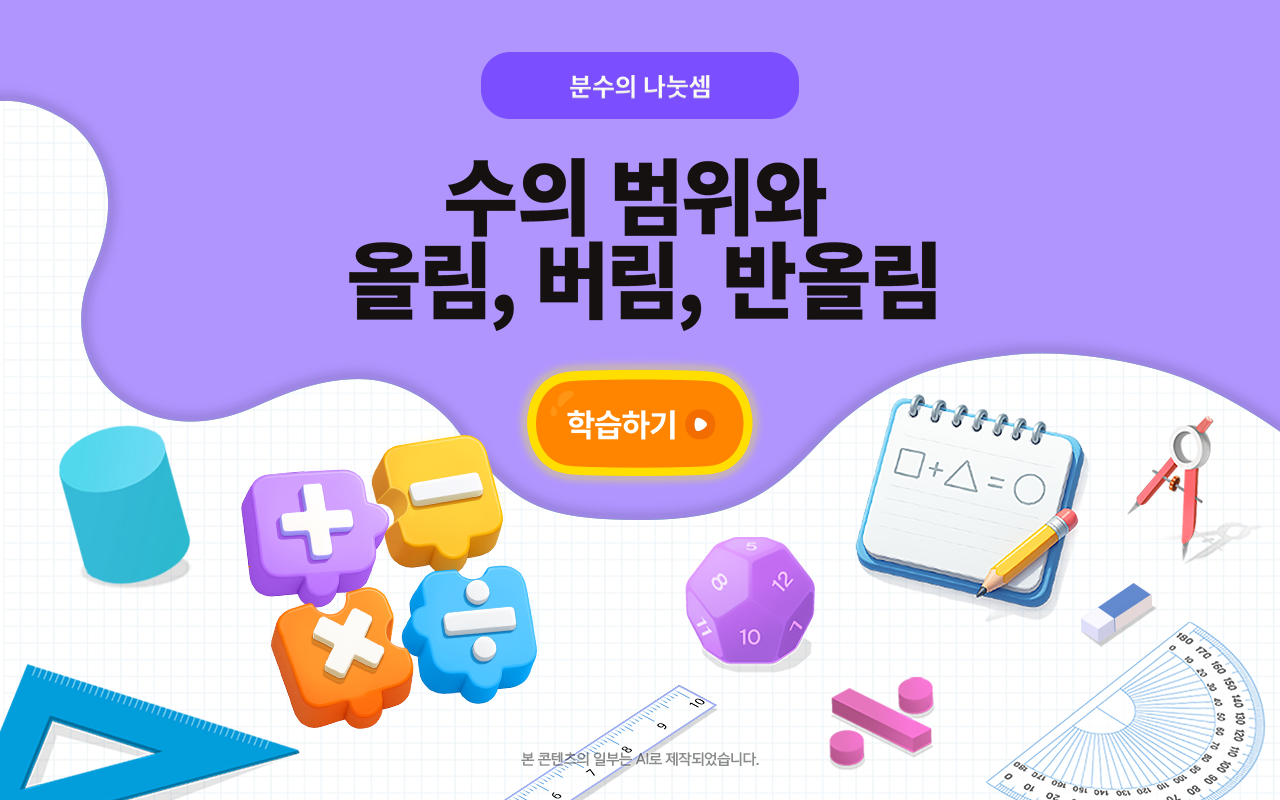
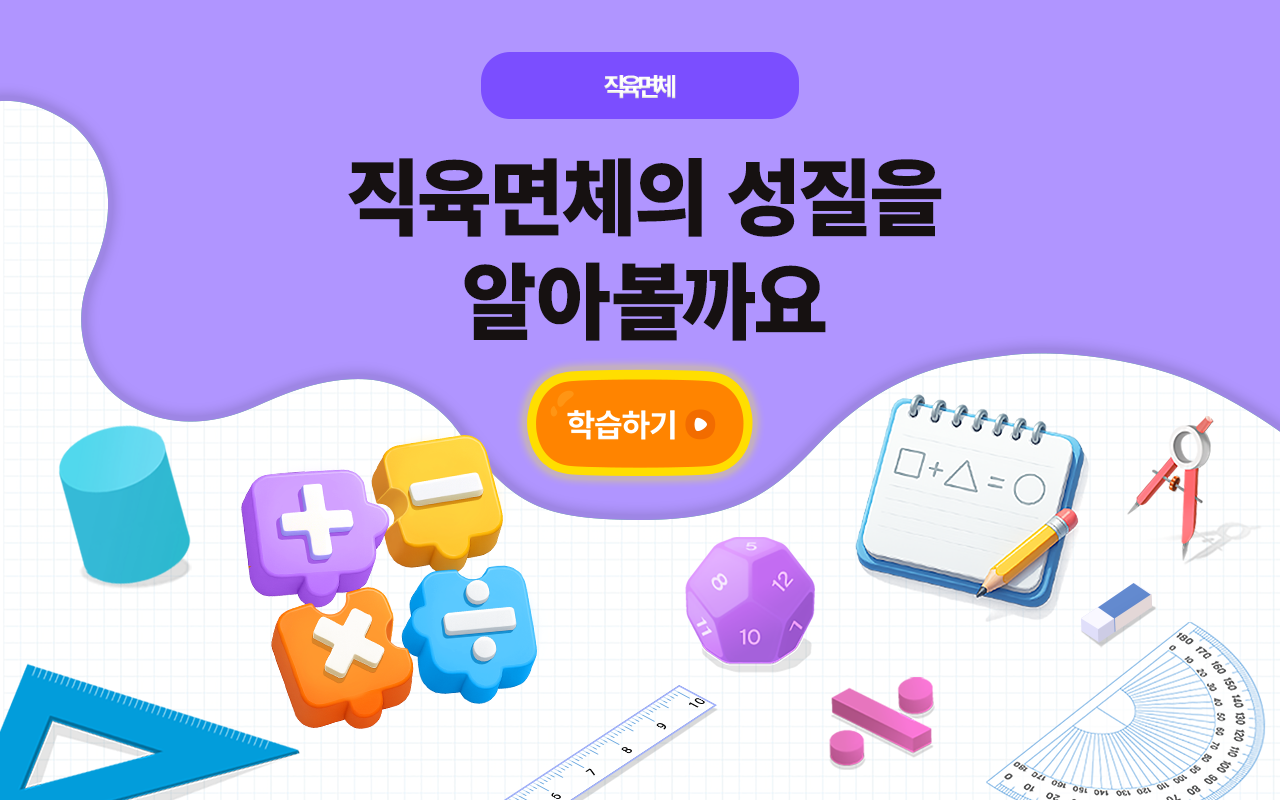
이벤트 페이지 수정

Changed region(s): [[0.25, 0.1875, 0.75, 0.4375], [0.4062, 0.9375, 0.5938, 0.9688], [0.4375, 0.0938, 0.5625, 0.125]]

diff --git a/css/event.css b/css/event.css
@@ -32,17 +32,6 @@ body {
 }
 
 /* content01 영역  :: video 플레이 영역 */
-video {
-    position: absolute;
-    top: 40%;
-    left: 50%;
-    transform: translateX(-50%); 
-    width: 50%;
-    max-width: 500px;
-    height: auto;
-    margin: 0 auto;
-    /* box-shadow: inset 0 0 5px red; */
-}
 
 /* content02 영역 */
 .eventWrap {
@@ -90,11 +79,11 @@ video {
     height: 9.5%;
     display: flex;
     justify-content: space-between;
-    gap: 10px;
+    gap: 6px;
 
 }
 .content03 .noteContainer .textArea {
-    width: 85%;
+    width: 93%;
     height: 100%;    
     outline: none;
     background: transparent;
@@ -104,13 +93,134 @@ video {
     line-height: 1.2;
     color: var(--stage-bg);
     overflow: hidden;
-    box-shadow: inset 0 0 5px red;
+    /* box-shadow: inset 0 0 5px red; */
 }
 .submitBtn {
     width: 14%;
     height: 100%;
-    box-shadow: inset 0 0 5px red;
+    /* box-shadow: inset 0 0 5px red; */
 }
+/* 이벤트 팝업 */
+.content03 .popupBg {
+    position: fixed;
+    top: 0;
+    left: 0;
+    width: 100%;
+    height: 100%;
+    background: rgba(0,0,0,0.5);
+    display: flex;
+    justify-content: center;
+    align-items: center;
+    z-index:100;
+}
+.content03 .popupBox {
+    background: #fff;
+    padding: 30px;
+    border-radius: 20px;
+    width: 80%;
+    max-width: 400px;
+    text-align: center;
+    box-shadow: 0 4px 15px rgba(0,0,0,0.2);
+}
+.content03 h3 {
+    margin-bottom: 10px;
+    color:var(--stage-bg);
+    font-size: 1rem;
+}
+.content03 .popupBox .userText {
+    background: #f9f9f9;
+    padding: 8px;
+    border-radius: 8px;
+    margin-bottom: 20px;
+    color:#555;
+    word-break: break-all;
+    min-height: 40px;
+    font-size: 0.95rem;
+    border: 1px solid #eee;
+    box-shadow: 1px 1px 3px #ddd;
+}
+.content03 .popupBox .closeBtn {
+    padding: 10px 20px;
+    border: none;
+    border-radius: 6px;
+    font-size: 0.9rem;
+    cursor: pointer;
+    background: #333;
+    color:#fff;
+}
+.content03 .popupBox .closeBtn:hover {
+    background: #555;
+}
+
+/* **************************************************** */
+/*                플레이어 커스텀 영역                   */
+/* **************************************************** */
+/* 1. 비디오 래퍼를 기존에 비디오가 있던 위치(content01 기준)로 보냄 */
+.custom-video-container {
+    position: absolute;
+    top: 41%;
+    left: 50%;
+    transform: translateX(-50%); 
+    width: 50%;
+    max-width: 500px;
+    background: #000;
+    border-radius: 12px;
+    overflow: hidden;
+    z-index: 10; /* 이미지가 위를 덮지 않도록 레이어 조정이 필요할 수 있음 */
+}
+
+/* 2. 실제 비디오 태그는 래퍼 크기에 꽉 차게 설정 */
+.custom-video-container video {
+    width: 100%;
+    height: auto;
+    display: block;
+}
+
+/* 3. 하단 커스텀 컨트롤러 바 스타일 (이전 답변과 동일) */
+.custom-controls {
+    position: absolute;
+    bottom: 0;
+    left: 0;
+    width: 100%;
+    background: linear-gradient(to top, rgba(0, 0, 0, 0.8), transparent);
+    padding: 15px;
+    display: flex;
+    align-items: center;
+    gap: 10px;
+    opacity: 0 ;
+    transition: opacity 0.3s ease;
+}
+
+.custom-video-container:hover .custom-controls {
+    opacity: 1;
+}
+
+.custom-controls .play-btn {    
+    background: url(../images/event/play01.png) no-repeat;
+    background-size: contain;
+    cursor: pointer;
+    width: 1.5rem;
+    height: 1.5rem;
+    /* box-shadow: inset 0 0 5px red; */
+}
+.custom-controls .play-btn.is-playing {
+    background: url(../images/event/play02.png) no-repeat;
+    background-size: contain;
+}
+.custom-controls .progress-bar-wrap {
+    flex: 1;
+    height: 6px;
+    background: rgba(255, 255, 255, 0.3);
+    border-radius: 3px;
+    overflow: hidden;
+}
+
+.custom-controls .progress-bar {
+    width: 0%;
+    height: 100%;
+    /* background: #ff4757; */
+}
+
 
 
 
@@ -126,8 +236,7 @@ video {
     }
     .content02 .eventList > li {
         width: calc(31% - 14px);
-    }
- 
+    } 
 }
 
 @media screen and (max-width: 768px) {
@@ -148,3 +257,28 @@ video {
     }
     .content02 .eventList > li:last-child {display: none;}
 }
+
+@media screen and (max-width: 480px) {
+    .eventWrap {
+        width: 65%;
+        top: 27%;
+        gap: 0.3em;
+    }
+    .content02 .eventList {
+        justify-content: space-evenly;
+        gap: 15px;
+    }
+    .content02 .eventList li:not(:first-child) {
+        display: none;
+    }
+    .content02 .eventList > li {
+        width: calc(42% - 10px); 
+    }
+    .content02 .eventList:nth-child(n+4) {
+        display: inherit;
+    }
+    .content02 .eventList:nth-child(n+7) {
+        display: none;
+    } 
+}
+

diff --git a/event.html b/event.html
@@ -16,7 +16,29 @@
                 <div class="content01">
                     <img src="./images/event/event1_1.png" alt="">
 
-                    <video id="vdo" src="./video/play02.mp4" poster="./video/poster/poster2.png" preload="auto"></video>
+                    <!-- <video id="vdo" src="./video/play02.mp4" poster="./video/poster/poster2.png" preload="auto"></video> -->
+
+
+                    <!-- <div class="progress-section">
+                    	<div class="progress-bar-wrap">
+                    		<div class="progress-bar" style="width: 50%;"></div>
+                    	</div>                        
+                    </div> -->
+
+                    <div class="custom-video-container">
+                        <!-- controls 속성을 빼야 브라우저 기본 컨트롤러가 안 보입니다 -->
+                        <video id="vdo" src="./video/play02.mp4"  poster="./video/poster/poster2.png" ></video>
+
+                        <!-- 커스텀 컨트롤러 영역 -->
+                        <div class="custom-controls">
+                            <button type="button" class="play-btn"></button>
+                            <div class="progress-bar-wrap">
+                                <div class="progress-bar"></div>
+                            </div>
+                        </div>
+                    </div>
+                    
+                    
 
                 </div>
                 <div class="content02">
@@ -82,11 +104,18 @@
                     <img src="./images/event/event1_3.png" alt="">
                     
                     <div class="noteContainer">
-                        <!-- <label for="noteArea">하고 싶은 말을 입력하세요</label> -->
                         <div class="textArea" contenteditable="true">
                         </div>
                         <div class="submitBtn"></div>
                     </div>
+                    <!-- 추가팝어 모달 영역 -->
+                     <div class="popupBg" style="display: none;">
+                        <div class="popupBox">
+                            <h3>참여해 주셔서 감사합니다!</h3>
+                            <p class="userText"></p>
+                            <button class="closeBtn">확인</button>
+                        </div>
+                     </div>
                 </div>
             </section>
         </main>

diff --git a/js/event.js b/js/event.js
@@ -1,11 +1,66 @@
 "use strict";
 
-const vdo = document.querySelector('#vdo');
+onload = async () => {
+    const $ = function(sel){return document.querySelector(sel)};
+    const $$ = function(sel){return document.querySelectorAll(sel)};
 
-vdo.addEventListener('click', function() {
-    if(vdo.paused) {
-        vdo.play();
-    } else {
-        vdo.pause();
+    const vdo = $('#vdo');
+    const playBtn = $('.play-btn');
+    const submit = $('.submitBtn');
+    const textArea = $('.content03 .textArea');
+    const popupBg = $('.content03 .popupBg');
+    const userTextDisplay = $('.content03 .userText');
+    const closeBtn = $('.content03 .closeBtn');
+
+    // 비디오 재생/정지 버튼 함수
+    function togglePlay () {
+        if(vdo.paused) {
+            vdo.play();
+        } else {
+            vdo.pause();
+        }
     }
-});
+
+    function updatePlayButton() {
+        if(vdo.paused) {
+            playBtn.classList.remove('is-playing');
+        } else {
+            playBtn.classList.add('is-playing');
+        }
+    }
+
+    if(vdo && playBtn) {
+        vdo.addEventListener(isTouch.click, togglePlay);
+        playBtn.addEventListener(isTouch.click, togglePlay);
+        vdo.addEventListener('play', updatePlayButton);
+        vdo.addEventListener('pause', updatePlayButton);
+    }
+
+
+    submit.addEventListener(isTouch.click, () => {
+        console.log("확인");
+        const textValue = textArea.innerText.trim();
+
+        // 입력내용 x경우 안내
+        if(textValue == "") {
+            alert('하고 싶은 말을 입력해 주세요');
+            textArea.focus();
+            return;
+        }
+
+        userTextDisplay.innerText = textValue;
+        popupBg.style.display = "flex";
+    });
+
+    closeBtn.addEventListener(isTouch.click, ()=>{
+        popupBg.style.display = 'none';
+        textArea.innerText = "";
+    });
+
+
+
+
+
+    
+
+}

diff --git a/common/common.js b/common/common.js
@@ -1,6 +1,20 @@
 "use strict";
 
 /* =====================================================
+ * * 터치 이벤트 관련
+========================================================*/
+const isTouch = (() => {
+    const isMobile = /Android|webOS|iPhone|iPad|iPod|BlackBerry|IEMobile|Opera Mini/i.test(navigator.userAgent);
+    return {
+        mobile: isMobile,
+        down: isMobile ? "touchstart" : "mousedown",
+        move: isMobile ? "touchmove" : "mousemove",
+        up: isMobile ? "touchend" : "mouseup",
+        click: "click"
+    };
+})();
+
+/* =====================================================
  * 1. 반응형 스케일링 1920*1080 뷰포트에 맞춰 scale 적용
  *  --> 창 크기 줄어도 내부 비율 그대로 유지
 ========================================================*/
@@ -107,8 +121,6 @@ function initSlideNav(rootEl) {
         },
         {passive:false}
     );
-
-
 
 
 
@@ -247,6 +259,9 @@ function closeEventPopup() {
     }
 }
 
+
+
+
 // DOM 로드 시 실행
 document.addEventListener('DOMContentLoaded', () => {
   const stage = document.getElementById('stage');
@@ -255,3 +270,4 @@ document.addEventListener('DOMContentLoaded', () => {
   if (content) window.slideNav = initSlideNav(content);
   initWorkPopup(); // 팝업 기능 실행
 });
+
